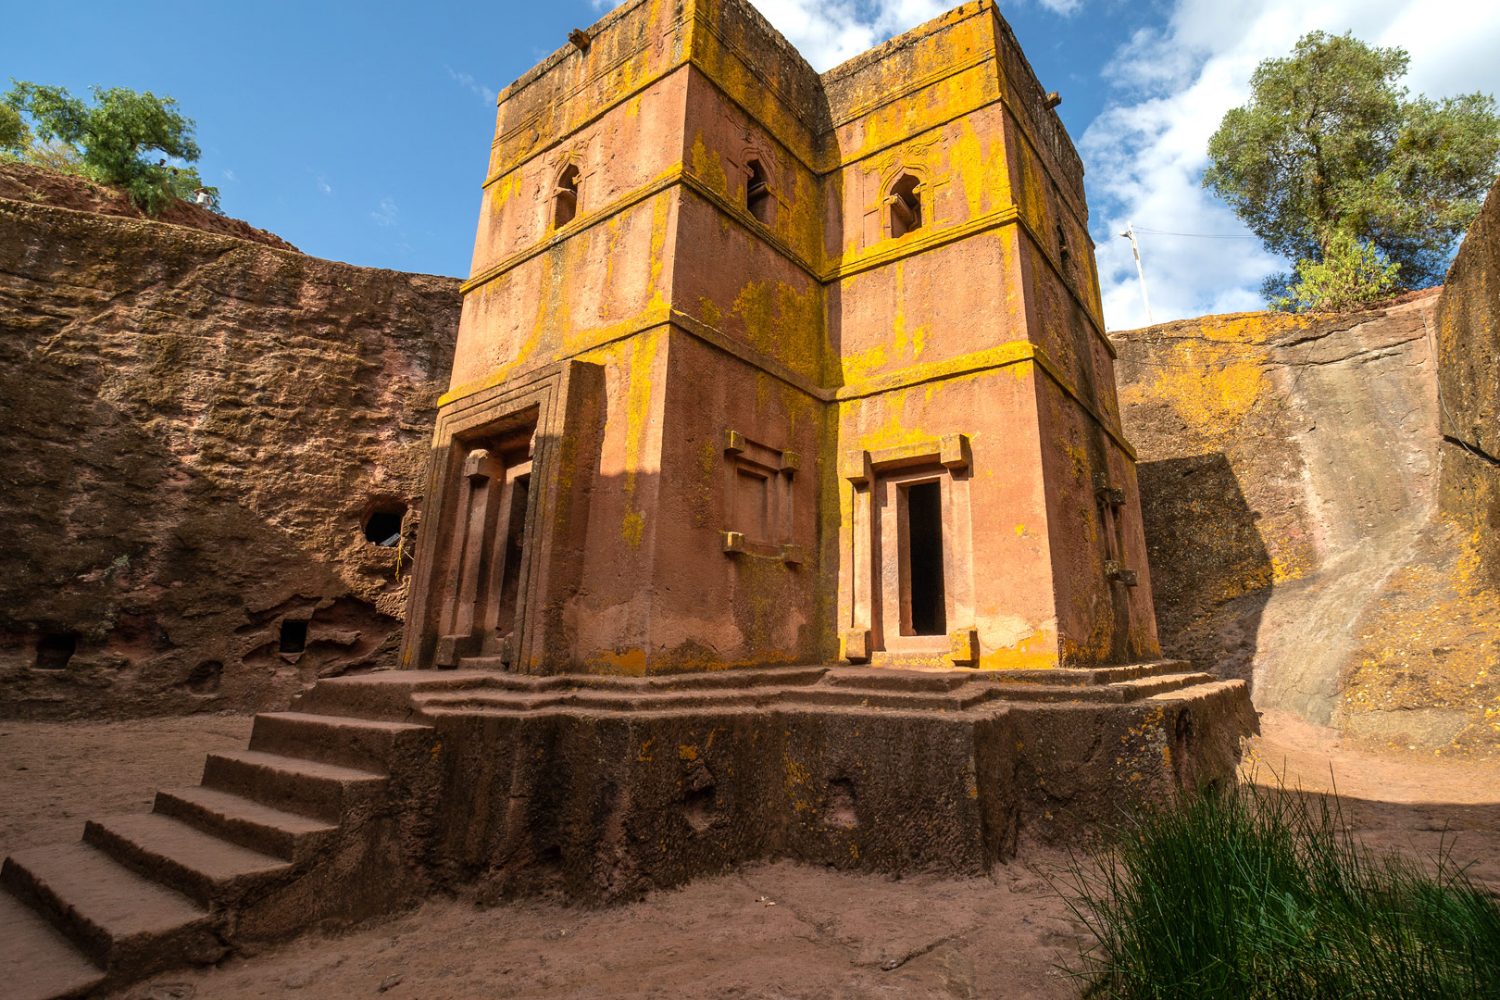
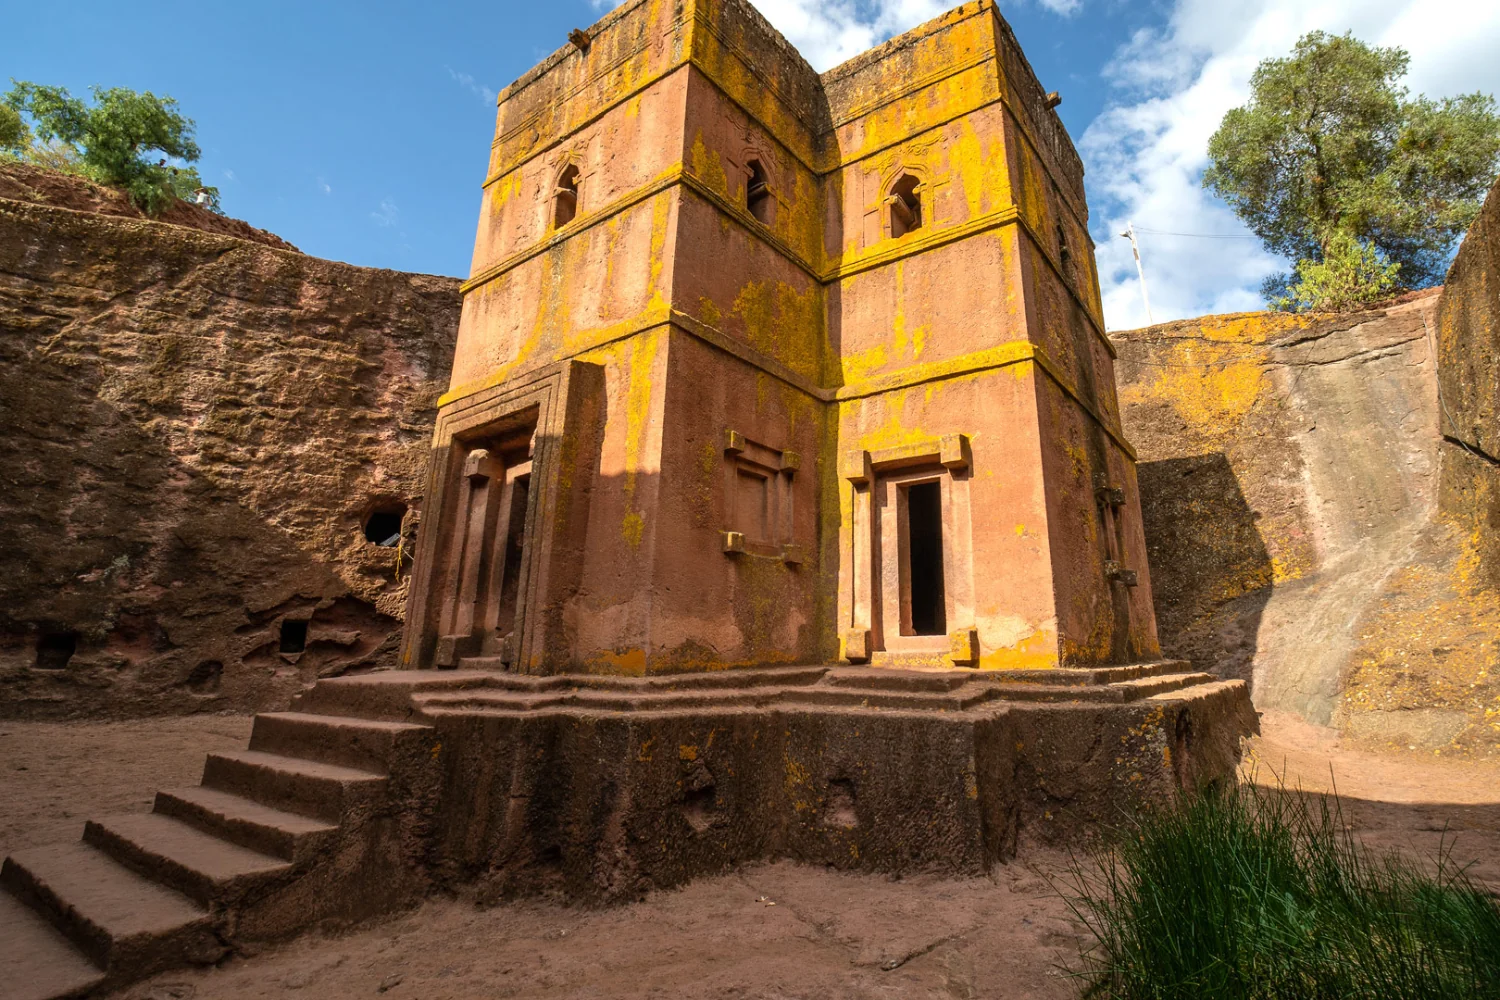
Nine more landmarks: Africa and the Middle East (100 in all)
Randy's third batch, aimed at the thin regions: Victoria Falls, Abu
Simbel, Table Mountain, the Great Mosque of Djenné, Hassan II Mosque,
the rock churches of Lalibela, Dome of the Rock, Sheikh Zayed Grand
Mosque and Persepolis. Africa goes from 3 landmarks to 9, the Middle
East from 9 to 13 (Abu Simbel counts in both, like Egypt's map).

Photos re-encoded at WebP quality 85 (they arrived at the right size but
at 0.6-2.2 MB each).

Country Monkey: country_monkey_landmarks.sql, 106 rows. Thinking Pants:
content/landmarks.csv, 100 (25/28/27/20 by tier).

Claude-Session: https://claude.ai/code/session_014EbjEU8wfqZ7Q6ej2GmHgL

Changed region(s): [[0.7973, 0.31, 0.8587, 0.341], [0.6133, 0.217, 0.644, 0.248], [0.6133, 0.062, 0.644, 0.093]]

diff --git a/content/landmarks_source.py b/content/landmarks_source.py
@@ -124,6 +124,16 @@ L = [
 ('todai-ji', 'Tōdai-ji', [AS], 3, ['Golden Pavilion', 'Kiyomizu-dera', 'Sensō-ji', 'Byōdō-in', 'Himeji Castle', 'Heian Shrine'], ['Todai-ji', 'Todaiji', 'Great Buddha Hall']),
 ('three-gorges', 'Three Gorges Dam', [AS], 4, ['Hoover Dam', 'Itaipu Dam', 'Aswan High Dam', 'Grand Coulee Dam', 'Xiluodu Dam', 'Tarbela Dam'], ['Three Gorges']),
 ('sigiriya-fortress', 'Sigiriya', [AS], 4, ['Ajanta Caves', 'Mount Popa', 'Meteora', 'Ellora Caves', 'Masada', 'Mount Kailash'], ['Lion Rock', 'Sigiriya Rock']),
+# --- added with Randy's third batch: Africa and the Middle East -------------
+('victoria-falls', 'Victoria Falls', [AF], 1, ['Iguazu Falls', 'Niagara Falls', 'Angel Falls', 'Murchison Falls', 'Tugela Falls', 'Blue Nile Falls'], ['Mosi-oa-Tunya', 'Victoria Falls Zambezi']),
+('abu-simbel', 'Abu Simbel', [AF, ME], 2, ['Temple of Karnak', 'Valley of the Kings', 'Great Sphinx of Giza', 'Temple of Hatshepsut', 'Petra', 'Colossi of Memnon'], ['Abu Simbel temples', 'Temple of Ramesses II']),
+('dome-rock', 'Dome of the Rock', [ME], 2, ['Al-Aqsa Mosque', 'Hagia Sophia', 'Blue Mosque', 'Sheikh Zayed Grand Mosque', 'Imam Reza Shrine', 'Church of the Holy Sepulchre'], ['Qubbat as-Sakhra', 'Dome of the Rock Jerusalem']),
+('sayed-mosque', 'Sheikh Zayed Grand Mosque', [ME], 2, ['Taj Mahal', 'Blue Mosque', 'Hassan II Mosque', 'Faisal Mosque', 'Grand Mosque of Muscat', 'Al-Masjid an-Nabawi'], ['Sheikh Zayed Mosque', 'Grand Mosque Abu Dhabi', 'Abu Dhabi Grand Mosque']),
+('table-mountain', 'Table Mountain', [AF], 2, ['Sugarloaf Mountain', 'Uluru', 'Mount Roraima', 'Kilimanjaro', 'Drakensberg', "Lion's Head"], ['Table Mountain Cape Town']),
+('dejennes-mosque', 'Great Mosque of Djenné', [AF], 3, ['Djinguereber Mosque', 'Great Mosque of Kairouan', 'Larabanga Mosque', 'Sankore Mosque', 'Grand Mosque of Bobo-Dioulasso', 'Kasbah of Aït Benhaddou'], ['Djenne Mosque', 'Great Mosque of Djenne', 'Djenné Mosque']),
+('hassan-ii-mosque', 'Hassan II Mosque', [AF], 3, ['Koutoubia Mosque', 'Sheikh Zayed Grand Mosque', 'Great Mosque of Kairouan', 'Blue Mosque', 'Faisal Mosque', 'Muhammad Ali Mosque'], ['Hassan 2 Mosque', 'Grande Mosquée Hassan II']),
+('persepolis', 'Persepolis', [ME], 3, ['Pasargadae', 'Palmyra', 'Babylon', 'Petra', 'Baalbek', 'Nineveh'], ['Takht-e Jamshid', 'Gate of All Nations']),
+('lalibela-church', 'Rock Churches of Lalibela', [AF], 4, ['Petra', 'Aksum Obelisks', 'Abu Simbel', 'Göreme Open Air Museum', 'Ellora Caves', 'Debre Damo'], ['Lalibela', 'Church of St. George Lalibela', 'Bete Giyorgis']),
 ]
 
 CM_POINTS = {1: 100, 2: 150, 3: 200, 4: 250}

diff --git a/CLAUDE.md b/CLAUDE.md
@@ -109,7 +109,7 @@ Mode keys are used in room votes and in `gameEngine.js`:
 
 - **Game length:** Trivi-yeah! is 12 questions, matching Profiler's 12
   rounds. Country Monkey is 20 (15 once flags and water joined, 20 once it
-  grew into a standalone mode with 91 landmarks -- Randy, Oct 2026).
+  grew into a standalone mode with ~100 landmarks -- Randy, Oct 2026).
 - **TRIVI_YEAH** (Trivi-yeah!): multiple-choice trivia. Its rows are stored
   under `game_mode = 'TRIVIA'`, a legacy exception that is kept on purpose (see
   the mapping near the top of `gameEngine.js`).
@@ -160,13 +160,13 @@ Mode keys are used in room votes and in `gameEngine.js`:
     are look-alike flags, never a near-twin (Chad/Romania, Monaco/Indonesia).
   - Water: `public/water/` (same recipe as the maps);
     `country_monkey_water.sql`, wrong answers of the same kind of water.
-  - Landmarks: `public/structures/`, Randy's 91 photos of buildings and
+  - Landmarks: `public/structures/`, Randy's 100 photos of buildings and
     natural wonders, 1500x1000 WebP (quality 85). `content/landmarks_source.py`
     is the master list (answer, regions, difficulty 1-4, 6 look-alike wrong
     answers, alternate names) and writes both `country_monkey_landmarks.sql`
     and the Thinking Pants sheet `content/landmarks.csv`. Asks for the
     landmark, not its country (the country is nearly free points and would
-    block that country's map). Africa (3) and the Middle East (9) are thin.
+    block that country's map). Africa (9) and the Middle East (13) are the thin regions.
   - Each SQL file only replaces its own subcategory, so they run
     independently. 5 regions + World Wide (Africa, Europe, Asia & Pacific,
     Middle East, Americas); `WORLD` rows (UN, Antarctica) are World Wide only.
@@ -201,7 +201,7 @@ Mode keys are used in room votes and in `gameEngine.js`:
 - **Thinking Pants geography categories:** Country Monkey (maps), **Flag Me
   Down** (flags, `trivi_yeah_ii_flag_me_down.sql`, 80), **Wet Pants**
   (water, `trivi_yeah_ii_wet_pants.sql`, 48) and **Wish You Were Here**
-  (landmarks, `content/landmarks.csv`, 91; a postcard name because it has
+  (landmarks, `content/landmarks.csv`, 100; a postcard name because it has
   natural wonders too) -- the cross-play with Country Monkey is deliberate.
 - **FLAG_ME_DOWN** (also a standalone mode, after the family asked where it
   went): 15 flags, 5 easy -> 5 medium -> 5 hard, each with 4 country choices
